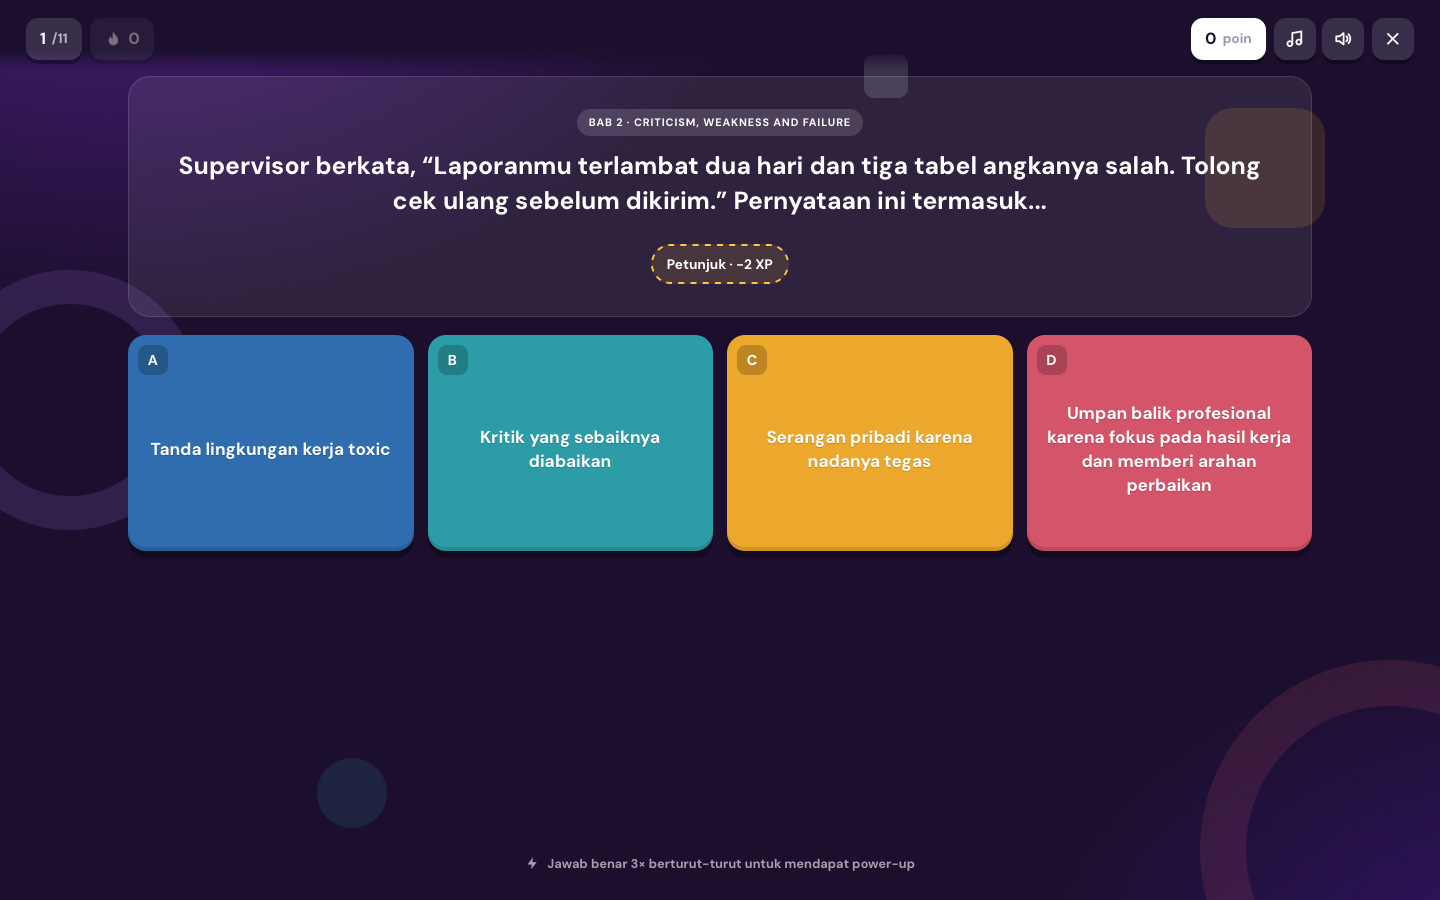
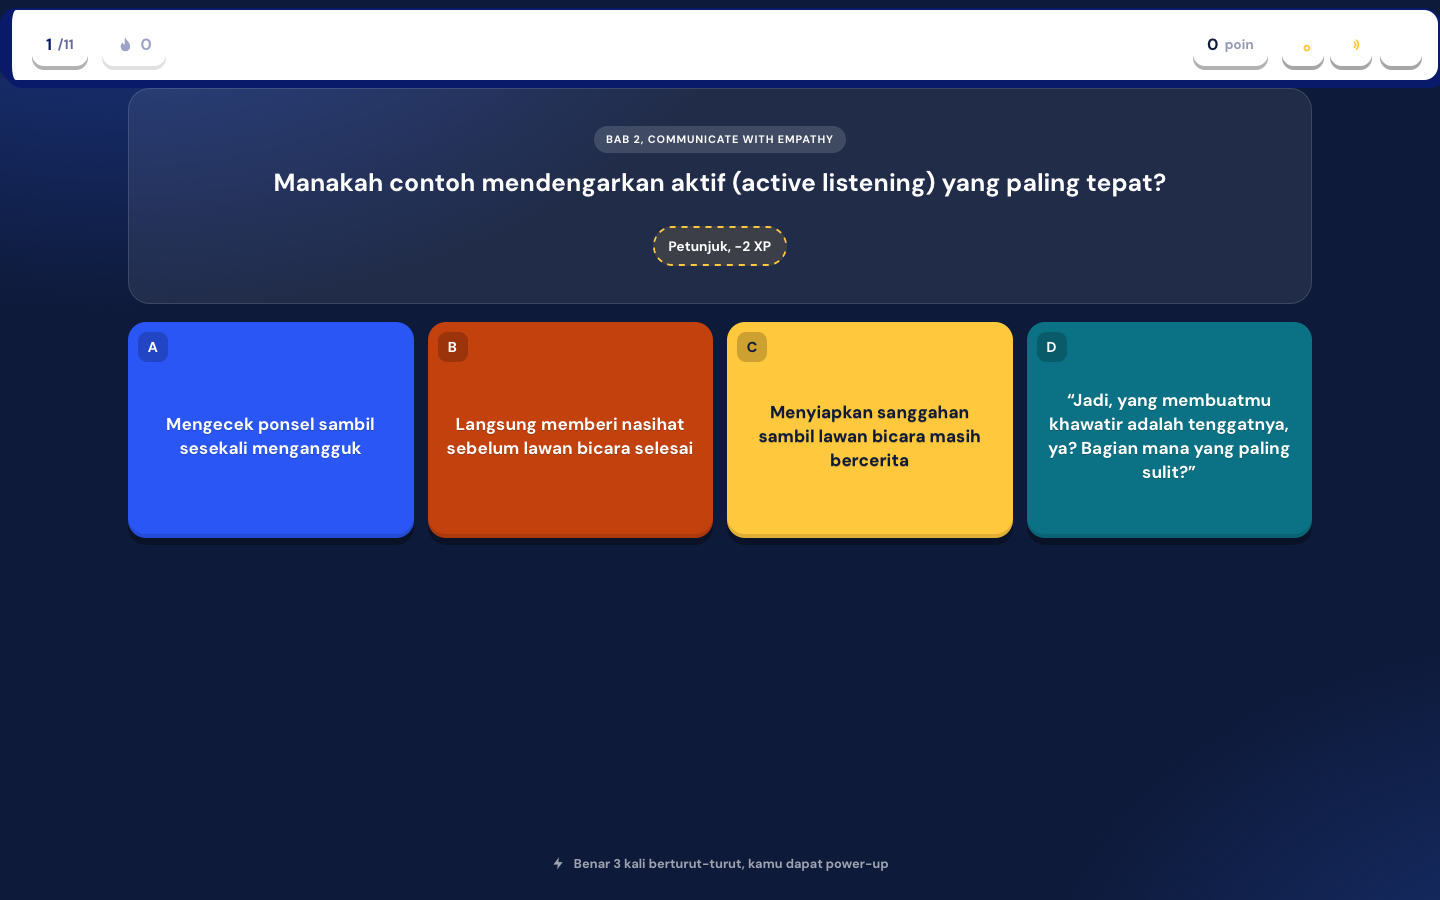
Update GrowthLab 2026-11-13

diff --git a/README.md b/README.md
@@ -28,21 +28,32 @@ Semua berjalan langsung di browser: **gratis, tanpa akun, tanpa server**, dan bi
 | 2 | **Emotional Intelligence** | Emotional and Social Awareness · Facing Stress and Burnout · Criticism, Weakness and Failure · Happiness in Life · Communicate with Empathy |
 | 3 | **Thinking Skill** | System Thinking · Critical Thinking · Strategic Thinking · Reflective Thinking · Creative Thinking |
 
-Setiap pelajaran berisi uraian, konsep penting, diagram, contoh kasus, aktivitas "Coba sendiri", dan cek pemahaman cepat.
+Setiap pelajaran berisi uraian, konsep penting, diagram, contoh kasus, aktivitas "Coba sendiri", dan **uji pemahaman** (4 soal per pelajaran, total 60 soal): studi kasus dengan penjelasan di tiap pilihan, soal dua tingkat (jawaban + alasan), dan soal "jelaskan dengan kata-katamu".
 
 ![Halaman materi](docs/screenshots/02-materi.png)
 
 ## Fitur utama
 
-**📚 Materi interaktif.** 15 pelajaran dalam 3 bab, lengkap dengan peta konsep (dengan pratinjau saat kursor diarahkan) dan glosarium. Pelajaran dibuka berurutan: pelajaran berikutnya terbuka setelah pelajaran sebelumnya ditandai selesai.
+**📚 Materi interaktif.** 15 pelajaran dalam 3 bab, lengkap dengan peta konsep (dengan pratinjau saat kursor diarahkan), glosarium 87 istilah, dan halaman Referensi berisi 15 artikel rujukan. Pelajaran dibuka berurutan: pelajaran berikutnya terbuka setelah pelajaran sebelumnya ditandai selesai.
 
-**🎬 Video promo di beranda.** Video singkat 30 detik berputar otomatis tanpa suara; suaranya bisa dinyalakan lewat tombol di pojok video.
+**🧪 Kenalan sama Labi.** Maskot pixel GrowthLab: labu Erlenmeyer yang menumbuhkan tunas. Labi menyapa di beranda, menemani loading screen, jadi avatar asisten **Bingung? Tanya**, dan melompat senang setiap kali kamu menyelesaikan pelajaran.
+
+<p align="center"><img src="docs/screenshots/10-loading.png" alt="Loading screen dengan Labi" width="420"></p>
+
+**🎬 Video 30 detik di beberapa halaman.** Video promo di beranda, video pengenalan materi di Ringkasan kursus, video Latihan bergaya *motion graphics* 60 fps, dan video tutorial 1 menit di Petunjuk. Semuanya berputar otomatis tanpa suara; suaranya bisa dinyalakan lewat tombol di pojok video.
+
+**🎨 Ilustrasi doodle pixel bergerak.** Setiap halaman panduan dan halaman ide kegiatan punya ilustrasi pixel sendiri (17 adegan) yang bergerak halus 60 fps. Ilustrasinya digambar langsung di browser, jadi tidak menambah file gambar, dan animasinya hanya berjalan saat terlihat di layar.
+
+![Ilustrasi doodle pixel](docs/screenshots/09-ilustrasi.png)
+
+**💬 Asisten Bingung? Tanya.** Jawaban diambil dari materi dan FAQ GrowthLab, berjalan offline tanpa layanan AI dari luar.
 
 ![Halaman pelajaran](docs/screenshots/03-pelajaran.png)
 
 **🎮 Latihan bergaya game.**
-- Kuis pilihan ganda ala Quizizz (34 soal, per bab atau gabungan), dengan petunjuk bertahap di kuis per bab.
+- Kuis pilihan ganda ala Quizizz (34 soal, per bab atau gabungan), dengan poin, bonus beruntun, dan petunjuk bertahap di kuis per bab.
 - 6 set drag & drop yang bisa dimainkan dengan mouse, sentuhan, atau keyboard.
+- Latihan terbuka bertahap: kuis, drag & drop, dan simulasi sebuah bab baru bisa dikerjakan setelah semua pelajaran di bab itu selesai.
 
 ![Kuis](docs/screenshots/04-kuis.png)
 
@@ -67,7 +78,11 @@ Setiap pelajaran berisi uraian, konsep penting, diagram, contoh kasus, aktivitas
 
 **💾 Data milik pengguna.** Progres tersimpan di browser dan bisa diunduh atau dipulihkan sebagai file cadangan. Catatan aktivitas belajar bisa diekspor (JSON/CSV) untuk keperluan penelitian. Tidak ada data yang dikirim ke pihak lain.
 
-**📱 Nyaman di semua perangkat.** Tampilan menyesuaikan HP, tablet, dan laptop/PC.
+**🗺 Panduan lengkap.** Petunjuk penggunaan, Tujuan belajar, Alur belajar, Peta konsep, Glosarium, Referensi, FAQ, serta enam ide kegiatan **Belajar bareng** untuk kelas atau kelompok belajar.
+
+![Alur belajar](docs/screenshots/08-alur.png)
+
+**📱 Nyaman di semua perangkat.** Tampilan menyesuaikan HP, tablet, dan laptop/PC. Animasi otomatis dimatikan untuk pengguna yang memilih "kurangi gerakan" di perangkatnya.
 
 <p align="center"><img src="docs/screenshots/07-hp.png" alt="Tampilan di HP" width="300"></p>
 
@@ -83,18 +98,18 @@ Setiap pelajaran berisi uraian, konsep penting, diagram, contoh kasus, aktivitas
 
 ## Teknologi
 
-HTML, CSS, dan JavaScript murni (tanpa *build step*), dengan pustaka lokal GSAP, Lenis, Matter.js, dan three.js. Semua aset ada di repo ini, jadi situs berjalan tanpa CDN maupun server.
+HTML, CSS, dan JavaScript murni (tanpa *build step*), dengan pustaka lokal GSAP (beserta ScrollTrigger dan MotionPathPlugin) dan Lenis. Semua aset ada di repo ini, jadi situs berjalan tanpa CDN maupun server.
 
 ```
 index.html     kerangka halaman
-css/           gaya (01–14), dimuat berurutan
-js/            skrip (01–21) + js/gamifikasi/ (XP, badge, streak, quest, cadangan, log)
+css/           gaya (01–22), dimuat berurutan
+js/            skrip (01–30) + js/gamifikasi/ (XP, badge, streak, quest, cadangan, log)
 vendor/        pustaka & font lokal
-assets/        gambar simulasi, storyboard & video promo
+assets/        gambar simulasi, storyboard, lukisan bab, sprite Labi & video
 offline/       paket ZIP dan SCORM siap unduh
 ```
 
-Isi materi, kuis, drag & drop, dan simulasi ada di satu file: `js/03-data.js`.
+Isi materi, kuis, drag & drop, dan simulasi ada di `js/03-data.js`; soal uji pemahaman di `js/26-uji-data.js`; ilustrasi doodle pixel di `js/30-ilustrasi-pixel.js`.
 
 > **Catatan:** ini prototipe tugas kuliah. Karena semua data tersimpan di browser, skor dan XP bisa diubah lewat devtools. Logika gamifikasi sengaja dipisah di `js/gamifikasi/` agar mudah dipindah ke server di kemudian hari.
 
